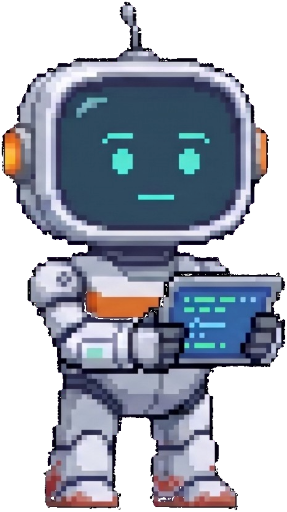
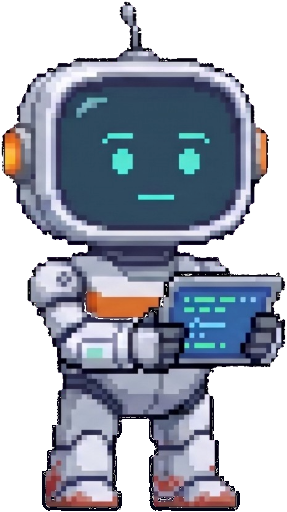
Notes clear of the crew, robot outline, shield matters every sol

diff --git a/src/ui/Screens.tsx b/src/ui/Screens.tsx
@@ -425,7 +425,8 @@ export function DataView({ periodId }: { periodId?: string }) {
       <p>Solar flares, plasma clouds and solar particle storms come from NASA DONKI. Each one really happened on the date shown. Most were seen from near Earth: the game pretends they reached our station.</p>
       <p>The normal dose of {c.DOSE_INDOOR_PER_SOL} mSv per sol comes from the Curiosity rover: its RAD instrument measured an average of {dose.mars.perDayMSv} mSv per day on Mars from {dose.mars.period} (<a href={dose.mars.link} target="_blank" rel="noreferrer">NASA</a>). In a storm the game multiplies it by {c.STORM_MULT_BY_DAY.join(' and ')}.</p>
       <p>Is that a lot? Astronauts on the Space Station get about {dose.iss.sixMonthsSolarMaxMSv} to {dose.iss.sixMonthsSolarMinMSv} mSv in six months, that is {dose.iss.perDayMSv.min} to {dose.iss.perDayMSv.max} mSv a day (<a href={dose.iss.link} target="_blank" rel="noreferrer">NASA</a>). So a day on Mars is about like a day on the Space Station. On the way to Mars and in solar storms it is higher.</p>
-      <p className="muted">Game values, not NASA limits: the badge turns amber at {c.BADGE_AMBER_MSV} mSv and red at {c.BADGE_RED_MSV} mSv. Crops, repairs and the 15-sol mission are sped up.</p>
+      <p className="muted">Game values, not NASA limits: the badge turns amber at {MODES.map((m) => cfg(m).BADGE_AMBER_MSV).join(' / ')} mSv and red at {MODES.map((m) => cfg(m).BADGE_RED_MSV).join(' / ')} mSv (Easy / Medium / Hard). Crops, repairs and the 15-sol mission are sped up.</p>
+      <p className="muted">Also simplified: a fully powered shield trims the everyday dose inside by {Math.round(c.SHIELD_DAILY_CUT * 100)}%. Real shielding helps much more against solar storms than against the everyday cosmic rays. The lower dose in Hellas Basin is a game estimate: thicker air above blocks a little more radiation.</p>
       <p className="muted">The station, the crew and the robot are drawn for the game. The photos on album cards are real NASA images, each with its credit. Lab and health cards come from studies in NASA's Open Science Data Repository (OSDR); every card links to its source.</p>
       <p className="muted">{donki.source}</p>
       {period && (

diff --git a/src/ui/Station.tsx b/src/ui/Station.tsx
@@ -172,11 +172,13 @@ export function Station({ s, height, selected, onSelect, onJob, overlay, notes }
       {notes && (Object.keys(notes) as (RoomId | 'outside')[]).map((id, k) => {
         const list = notes[id] ?? [];
         if (!list.length) return null;
-        const r = id === 'outside' ? { x: -GUTTER + 6, y: GROUND - 150, w: GUTTER + 10, h: 100 } : board.rooms[id];
-        // the dome is tall, so its notes fit inside above the heads; the low modules get theirs above the roof, so no face is covered
-        const above = id !== 'greenhouse' && id !== 'outside';
+        // notes never cover anyone: over a room they float above its roof (and above the dome's chips);
+        // outside they float above the walkers' heads, starting at the left edge so nothing is cut off
+        const style = id === 'outside'
+          ? { left: X(-GUTTER) + 8, top: Y(GROUND + 22 - board.crewHeight) - 10 }
+          : { left: X(board.rooms[id].x + board.rooms[id].w / 2), top: Y(board.rooms[id].y) - (id === 'greenhouse' ? 62 : 34) };
         return (
-          <ul key={id} className={`st-notes${above ? ' above' : ''}`} style={{ left: X(r.x + r.w / 2), top: above ? Y(r.y) - 34 : Y(r.y) + (id === 'greenhouse' ? 44 : 30) }} aria-label={id === 'outside' ? 'Outside' : board.rooms[id].name}>
+          <ul key={id} className={`st-notes above${id === 'outside' ? ' outside' : ''}`} style={style} aria-label={id === 'outside' ? 'Outside' : board.rooms[id].name}>
             {list.map((n, i) => (
               <li key={i} className={`st-note ${n.tone}`} style={{ animationDelay: `${(k * 3 + i) * 0.18}s` }}>
                 <img src={icon(n.icon)} alt="" />{n.text}

diff --git a/src/ui/Base.tsx b/src/ui/Base.tsx
@@ -61,7 +61,7 @@ export function PlanBase({ s, onCells, onJob, onDone }: PlanProps) {
   const [why, setWhy] = useState(false);
   const effect = (k: SystemId, n: number, short: number): string => {
     if (k === 'life') return short > 0 ? `Air −${short * c.AIR_LOSS_PER_MISSING_CELL} tonight` : short < 0 ? `Air +${-short * c.AIR_GAIN_PER_EXTRA_CELL} tonight` : 'Air stays level';
-    if (k === 'shield') return !st ? 'No storm: not needed' : short <= 0 ? 'Storm dose: minimum' : `Storm dose: ${c.SHOW_MSV ? fmt2(doseFor(c, st, 'rest', n).d) + ' mSv' : 'higher'}`;
+    if (k === 'shield') return !st ? (short <= 0 ? `Everyday dose -${Math.round(c.SHIELD_DAILY_CUT * 100)}%` : n > 0 ? 'Everyday dose a bit lower' : 'No storm: everyday dose') : short <= 0 ? 'Storm dose: minimum' : `Storm dose: ${c.SHOW_MSV ? fmt2(doseFor(c, st, 'rest', n).d) + ' mSv' : 'higher'}`;
     if (k === 'greenhouse') return n > 0 ? `Crop +${n * c.STEPS_PER_GREENHOUSE_CELL} steps` : 'Crops wait';
     if (k === 'radio') return isBlackout(s) ? 'Blackout today' : radioBlocked(s) ? 'Antenna is off' : short <= 0 ? 'Message tonight' : n > 0 ? `1 more cell to send` : 'Radio off';
     return short <= 0 ? 'Samples → cards' : n > 0 ? 'Half speed' : 'Lab off';

diff --git a/src/engine/rules.ts b/src/engine/rules.ts
@@ -125,7 +125,9 @@ export function effectiveJobs(s: GameState): Record<string, EffectiveJob> {
 
 /** Dose of one sol: d = total, extra = what the storm added above a normal day. */
 export function doseFor(c: Balance, storm: { mult: number } | null, job: EffectiveJob, shieldCells: number): { d: number; extra: number } {
-  const base = c.DOSE_INDOOR_PER_SOL, out = job === 'outside';
+  const out = job === 'outside';
+  // the shield also trims a little of the everyday cosmic-ray dose for everyone inside (game simplification, see balance.json)
+  const cover = Math.min(1, shieldCells / c.SYSTEMS.shield.want), base = c.DOSE_INDOOR_PER_SOL * (out ? 1 : 1 - (c.SHIELD_DAILY_CUT ?? 0) * cover);
   if (!storm) return { d: base + (out ? c.DOSE_OUTSIDE_TRIP : 0), extra: 0 };
   if (out) { const d = (base + c.DOSE_OUTSIDE_TRIP) * storm.mult; return { d, extra: d - base - c.DOSE_OUTSIDE_TRIP }; }
   const gap = 1 - Math.min(1, shieldCells / c.SYSTEMS.shield.want);

diff --git a/tests/engine.test.ts b/tests/engine.test.ts
@@ -212,8 +212,12 @@ describe('crew', () => {
 });
 
 describe('radiation', () => {
-  it('storm + full shield: minimum dose inside', () => {
-    expect(dose(run(mk(6, storm), plan({ shield: 3 })), 'leo')).toBeCloseTo(D0);
+  it('storm + full shield: minimum dose inside (the shield also trims the everyday dose)', () => {
+    expect(dose(run(mk(6, storm), plan({ shield: 3 })), 'leo')).toBeCloseTo(D0 * (1 - C.SHIELD_DAILY_CUT));
+  });
+  it('a quiet sol: a full shield trims the everyday dose, an empty one does not', () => {
+    expect(dose(run(mk(6), plan({ shield: 3 })), 'leo')).toBeCloseTo(D0 * (1 - C.SHIELD_DAILY_CUT));
+    expect(dose(run(mk(6), plan({ shield: 0 })), 'leo')).toBeCloseTo(D0);
   });
   it('storm + no shield: the storm multiplier applies inside', () => {
     expect(dose(run(mk(6, storm), plan({ shield: 0 })), 'leo')).toBeCloseTo(D0 * C.STORM_MULT_BY_DAY[0]);

diff --git a/src/ui/game.css b/src/ui/game.css
@@ -609,3 +609,11 @@ button.pick:hover .pick-tip, button.pick:focus-visible .pick-tip { display: bloc
 .brief-tasks li .brief-tag { grid-row: 1 / 3; }
 .brief-tasks li b { font-size: 17px; }
 .brief-mc-setup span { color: var(--brief-muted); font-size: 18px; }
+.st-notes.outside { transform: translate(0, -100%); justify-items: start; }
+/* Tasks button: its shadow stays inside the top bar like the other buttons */
+.tasks-btn { box-shadow: 0 0 0 3px var(--outline), 0 5px 0 3px var(--outline) !important; }
+/* top bar meters: the label never wraps, even at 10/10 */
+.hud-meter { width: 158px; }
+.hud-meter-label { gap: 6px; }
+.hud-meter-label span { white-space: nowrap; overflow: hidden; text-overflow: ellipsis; min-width: 0; }
+.hud-meter-label b { white-space: nowrap; flex: none; }

diff --git a/src/ui/motion.css b/src/ui/motion.css
@@ -124,7 +124,7 @@
 @media (prefers-reduced-motion: no-preference) {
   /* Mission Control calls attention: the tasks button glints, the pinned list slides in */
   .tasks-btn { animation: tasks-glint 2.4s steps(1, end) 3; }
-  @keyframes tasks-glint { 50% { box-shadow: 0 0 0 3px var(--text), 0 5px 0 3px var(--mars-dark); } }
+  @keyframes tasks-glint { 50% { box-shadow: 0 0 0 3px var(--text), 0 5px 0 3px var(--outline); } }
   .task-pin { animation: slide-left 0.45s 0.3s cubic-bezier(0.2, 0.9, 0.3, 1.1) both; }
   @keyframes slide-left { from { opacity: 0; transform: translateX(40px); } }
 }
